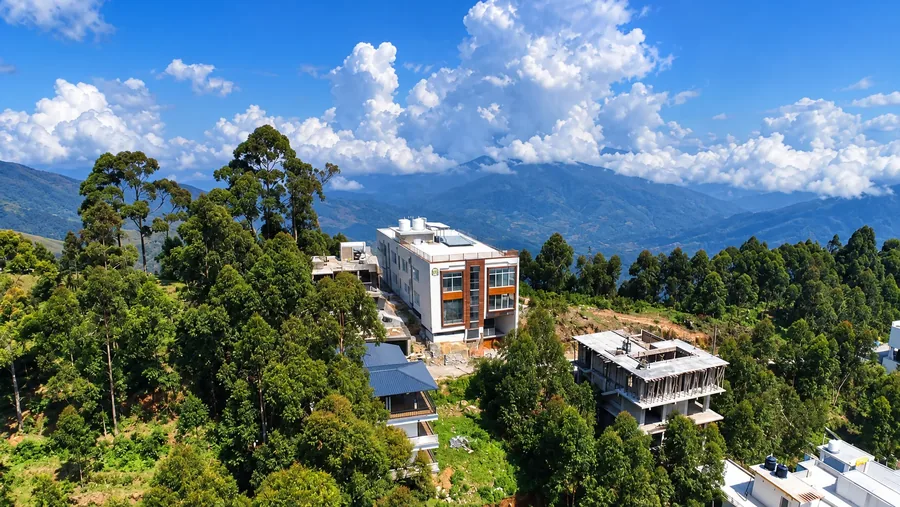
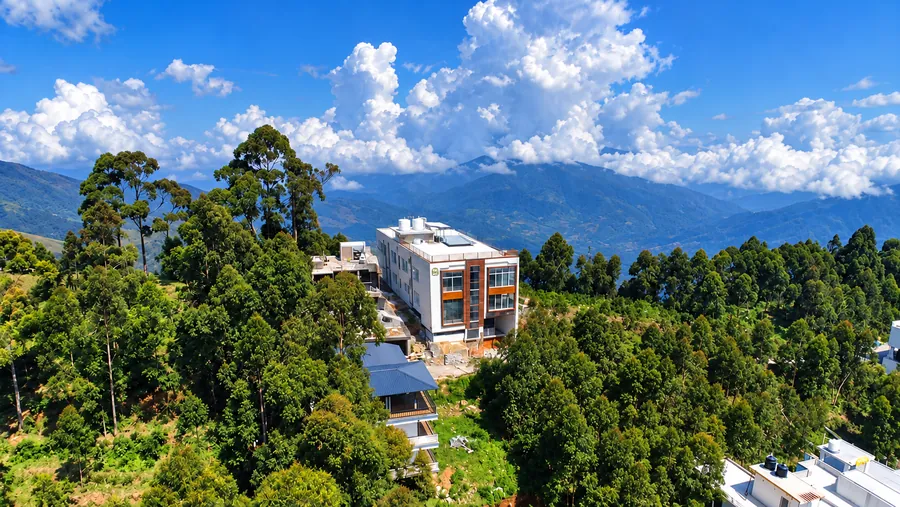
reservation date minimized

Changed region(s): [[0.0, 0.2367, 1.0, 1.0], [0.4356, 0.4438, 0.4978, 0.503], [0.5289, 0.0, 0.56, 0.0592]]

diff --git a/src/components/Reserve.jsx b/src/components/Reserve.jsx
@@ -54,6 +54,9 @@ export default function Reserve() {
   const [datesOpen, setDatesOpen] = useState(false); // the date drop-down above the steps
   const datesRef = useRef(null);
   const [touched, setTouched] = useState(() => new Set(route.pathname.startsWith('/places/') ? ['place'] : []));
+  // Floor and room stay blank until the guest picks them (a one-floor place has its floor settled)
+  const [roomPicked, setRoomPicked] = useState(false);
+  const floorPicked = !multiFloor || touched.has('floor');
 
   // A new place starts on its first floor and room type
   useEffect(() => {
@@ -62,6 +65,8 @@ export default function Reserve() {
     setRoomId(Object.keys(floor.rooms)[0]);
     setRooms(1);
     setGuests(g => Math.min(g, venue.rooms[0].sleeps));
+    setRoomPicked(false);
+    setTouched(t => { const n = new Set(t); n.delete('floor'); n.delete('room'); return n; });
   }, [venue]);
 
   // Availability for every place, so once the dates are known each place can say what it has free
@@ -95,7 +100,7 @@ export default function Reserve() {
   const left = freeFor(floor.id, room.id);
   const maxRooms = Math.max(1, Math.min(count, left || count));
   const fits = rooms * room.sleeps >= guests;
-  const price = nights ? quote(room.price, rooms, nights) : null;
+  const price = nights && roomPicked ? quote(room.price, rooms, nights) : null;
   const gstPct = Math.round((price?.gstRate ?? (room.price <= 7500 ? 0.05 : 0.18)) * 100);
 
   // Keep the counts sensible when the room or dates change
@@ -119,7 +124,7 @@ export default function Reserve() {
   };
   const chooseFloor = f => {
     setFloorId(f.id);
-    if (!f.rooms[roomId]) setRoomId(Object.keys(f.rooms)[0]);
+    if (!f.rooms[roomId]) { setRoomId(Object.keys(f.rooms)[0]); setRoomPicked(false); }
     go('floor', 'room');
   };
   const chooseDates = d => {
@@ -145,8 +150,8 @@ export default function Reserve() {
 
   // Shared with the floating WhatsApp button, so its message carries this stay
   useEffect(() => {
-    setStay({ location: venue.booking, floorName: multiFloor ? floor.name : '', roomName: room.name, arrival, departure, guests });
-  }, [venue, multiFloor, floor, room, arrival, departure, guests, setStay]);
+    setStay({ location: venue.booking, floorName: multiFloor && floorPicked ? floor.name : '', roomName: roomPicked ? room.name : '', arrival, departure, guests });
+  }, [venue, multiFloor, floor, room, floorPicked, roomPicked, arrival, departure, guests, setStay]);
 
   useGSAP(() => {
     if (reduceMotion) return;
@@ -166,6 +171,8 @@ export default function Reserve() {
     e.preventDefault();
     if (sending) return;
     if (!arrival || !departure) { setDatesOpen(true); return setMessage('Kindly choose your arrival and departure days.'); }
+    if (!floorPicked) { setOpen('floor'); return setMessage('Kindly choose a floor.'); }
+    if (!roomPicked) { setOpen('room'); return setMessage('Kindly choose a room.'); }
     if (left < rooms) { setOpen('room'); return setMessage('This room is not free for all of those nights. Try another room, floor or dates.'); }
     if (!fits) { setOpen('room'); return setMessage(`${room.name} sleeps ${room.sleeps} — kindly add a room for ${guests} guests.`); }
     if (!name.trim()) return setMessage('Kindly add your name.');
@@ -204,7 +211,9 @@ export default function Reserve() {
 
   // What has to be settled before moving on from each step
   const blocker = {
+    floor: !floorPicked && 'Choose a floor.',
     room: (!nights && 'Choose your arrival and departure days above.')
+      || (!roomPicked && 'Choose a room.')
       || (left < rooms && `${room.name} is not free for all these nights — pick another room, floor or dates.`)
       || (!fits && `${room.name} sleeps ${room.sleeps} — add a room for ${plural(guests, 'guest')}.`)
   }[current];
@@ -238,7 +247,7 @@ export default function Reserve() {
           const total = Object.values(f.rooms).reduce((a, b) => a + b, 0);
           return (
             <li key={f.id}>
-              <button type="button" className={f.id === floor.id ? 'is-on' : undefined} aria-pressed={f.id === floor.id} onClick={() => chooseFloor(f)}>
+              <button type="button" className={floorPicked && f.id === floor.id ? 'is-on' : undefined} aria-pressed={floorPicked && f.id === floor.id} onClick={() => chooseFloor(f)}>
                 <span className="rv-floors__name">{f.name}</span>
                 <span className="rv-floors__types">{venue.rooms.filter(r => f.rooms[r.id]).map(r => r.name).join(' · ')}</span>
                 <i aria-hidden="true" />
@@ -260,9 +269,9 @@ export default function Reserve() {
               <button
                 type="button"
                 key={r.id}
-                className={['rv-room', r.id === room.id && 'is-on', full && 'is-full'].filter(Boolean).join(' ')}
-                aria-pressed={r.id === room.id}
-                onClick={() => { setRoomId(r.id); setMessage(''); }}
+                className={['rv-room', roomPicked && r.id === room.id && 'is-on', full && 'is-full'].filter(Boolean).join(' ')}
+                aria-pressed={roomPicked && r.id === room.id}
+                onClick={() => { setRoomId(r.id); setRoomPicked(true); setMessage(''); }}
               >
                 <span className="rv-room__name">{r.name}</span>
                 <span className="rv-room__note">{r.note}</span>
@@ -301,7 +310,7 @@ export default function Reserve() {
           <button type="submit" className="btn-gold" disabled={sending}>
             <span>{sending ? 'Sending…' : price ? `Request booking · ${rupees(price.total)}` : 'Request booking'}</span>
           </button>
-          <a className="rv-wa" target="_blank" rel="noopener" href={whatsappLink({ location: venue.booking, floorName: multiFloor ? floor.name : '', roomName: room.name, arrival, departure, guests })}>
+          <a className="rv-wa" target="_blank" rel="noopener" href={whatsappLink({ location: venue.booking, floorName: multiFloor && floorPicked ? floor.name : '', roomName: roomPicked ? room.name : '', arrival, departure, guests })}>
             or reserve on WhatsApp
           </a>
         </div>
@@ -338,19 +347,19 @@ export default function Reserve() {
           </div>
 
           <div className="rv-folio" aria-live="polite">
-            <div className="rv-folio__row"><span>Room</span><i /><b>{room.name}{rooms > 1 ? ` × ${rooms}` : ''}</b></div>
-            {multiFloor && <div className="rv-folio__row"><span>Floor</span><i /><b>{floor.name}</b></div>}
+            <div className="rv-folio__row"><span>Room</span><i /><b>{roomPicked ? `${room.name}${rooms > 1 ? ` × ${rooms}` : ''}` : '—'}</b></div>
+            {multiFloor && <div className="rv-folio__row"><span>Floor</span><i /><b>{floorPicked ? floor.name : '—'}</b></div>}
             <div className="rv-folio__row"><span>Arrival</span><i /><b>{arrival ? fmtLong(arrival) : '—'}</b></div>
             <div className="rv-folio__row"><span>Departure</span><i /><b>{departure ? fmtLong(departure) : '—'}</b></div>
             <div className="rv-folio__row"><span>Guests</span><i /><b>{guests}</b></div>
             <div className="rv-folio__rule" />
             <div className="rv-folio__row rv-folio__row--sm">
-              <span>{rupees(room.price)} × {nights ? plural(nights, nightWord) : `per ${nightWord}`}{rooms > 1 ? ` × ${rooms}` : ''}</span><i /><b>{price ? rupees(price.subtotal) : '—'}</b>
+              <span>{roomPicked ? `${rupees(room.price)} × ${nights ? plural(nights, nightWord) : `per ${nightWord}`}${rooms > 1 ? ` × ${rooms}` : ''}` : 'Room rate'}</span><i /><b>{price ? rupees(price.subtotal) : '—'}</b>
             </div>
-            <div className="rv-folio__row rv-folio__row--sm"><span>GST {gstPct}%</span><i /><b>{price ? rupees(price.gst) : '—'}</b></div>
+            <div className="rv-folio__row rv-folio__row--sm"><span>{roomPicked ? `GST ${gstPct}%` : 'GST'}</span><i /><b>{price ? rupees(price.gst) : '—'}</b></div>
             <div className="rv-folio__total">
               <span>Estimated total</span>
-              <b className={price ? undefined : 'is-empty'}>{price ? rupees(price.total) : 'Select your dates'}</b>
+              <b className={price ? undefined : 'is-empty'}>{price ? rupees(price.total) : !nights ? 'Select your dates' : 'Select your room'}</b>
             </div>
           </div>
         </aside>

diff --git a/src/styles.css b/src/styles.css
@@ -422,22 +422,6 @@ main { position: relative; z-index: 2; pointer-events: none; }
   color: var(--faint);
   z-index: 1;
 }
-.hero__scroll {
-  position: absolute;
-  left: 50%;
-  bottom: 0;
-  transform: translateX(-50%);
-  width: 1px;
-  height: 64px;
-  background: rgba(212, 166, 74, 0.2);
-  overflow: hidden;
-}
-.hero__scroll i {
-  position: absolute;
-  inset: 0;
-  background: var(--gold);
-  animation: drip 2.2s var(--ease) infinite;
-}
 @keyframes drip {
   0% { transform: translateY(-100%); }
   60%, 100% { transform: translateY(100%); }
@@ -2790,5 +2774,5 @@ main { position: relative; z-index: 2; pointer-events: none; }
 }
 
 @media (prefers-reduced-motion: reduce) {
-  .grain, .hero__shine, .hero__scroll i { animation: none; }
+  .grain, .hero__shine { animation: none; }
 }

diff --git a/src/components/Stage.jsx b/src/components/Stage.jsx
@@ -1,6 +1,5 @@
 import { useRef } from 'react';
 import { gsap, useGSAP, reduceMotion, finePointer } from '../motion';
-import SiteLink from './SiteLink';
 
 const NAME = 'SIVABHAGYA';
 
@@ -91,7 +90,6 @@ export default function Stage() {
 
       <div className="hero__foot">
         <span>Hotels &amp; Resorts</span>
-        <SiteLink to="#locations" className="hero__scroll" aria-label="Scroll to our places"><i /></SiteLink>
         <span>Scroll to enter</span>
       </div>
     </div>
